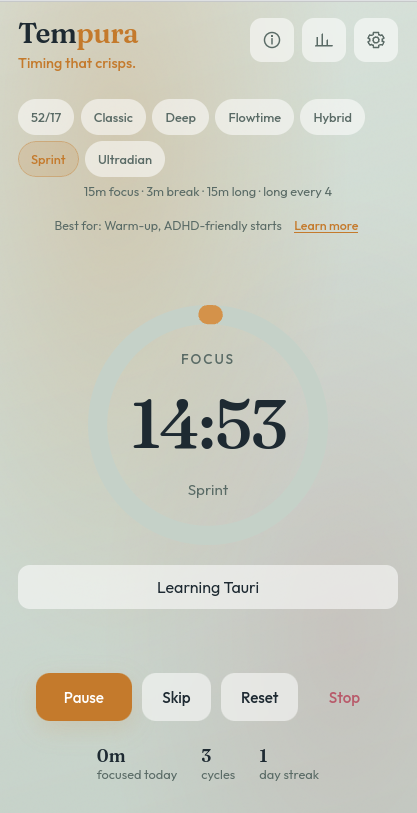
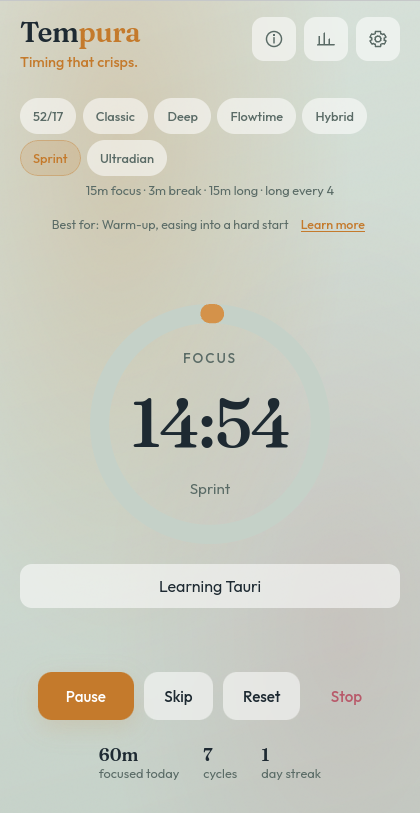
Replace the download-page timer shot so Sprint no longer says ADHD-friendly.

diff --git a/website/index.html b/website/index.html
@@ -113,7 +113,7 @@
                   </div>
                   <img
                     src="./shots/timer.png"
-                    alt="Tempura timer on Sprint: 14:53 remaining, working on Learning Tauri"
+                    alt="Tempura timer on Sprint: 14:54 remaining, working on Learning Tauri"
                     width="417"
                     height="813"
                   />
